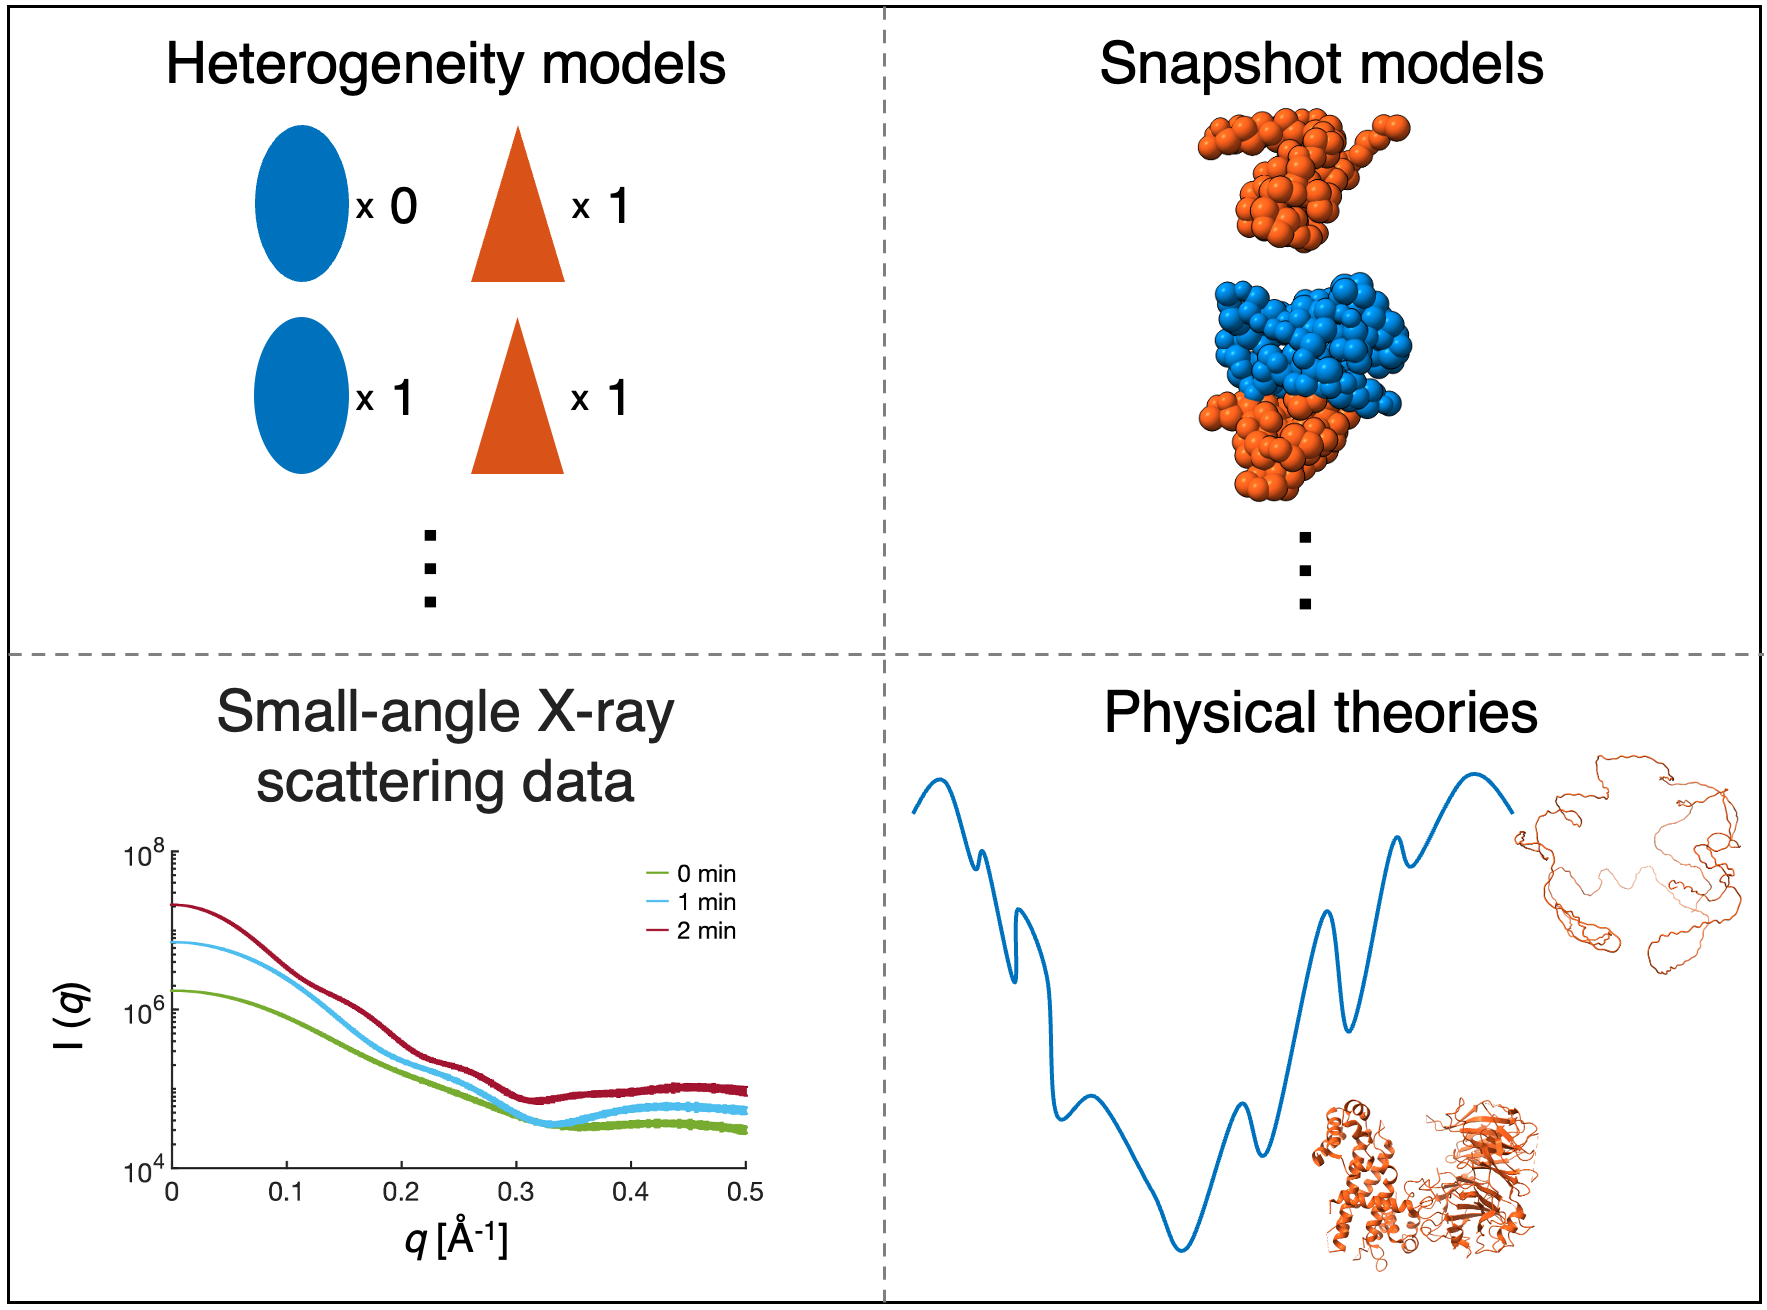
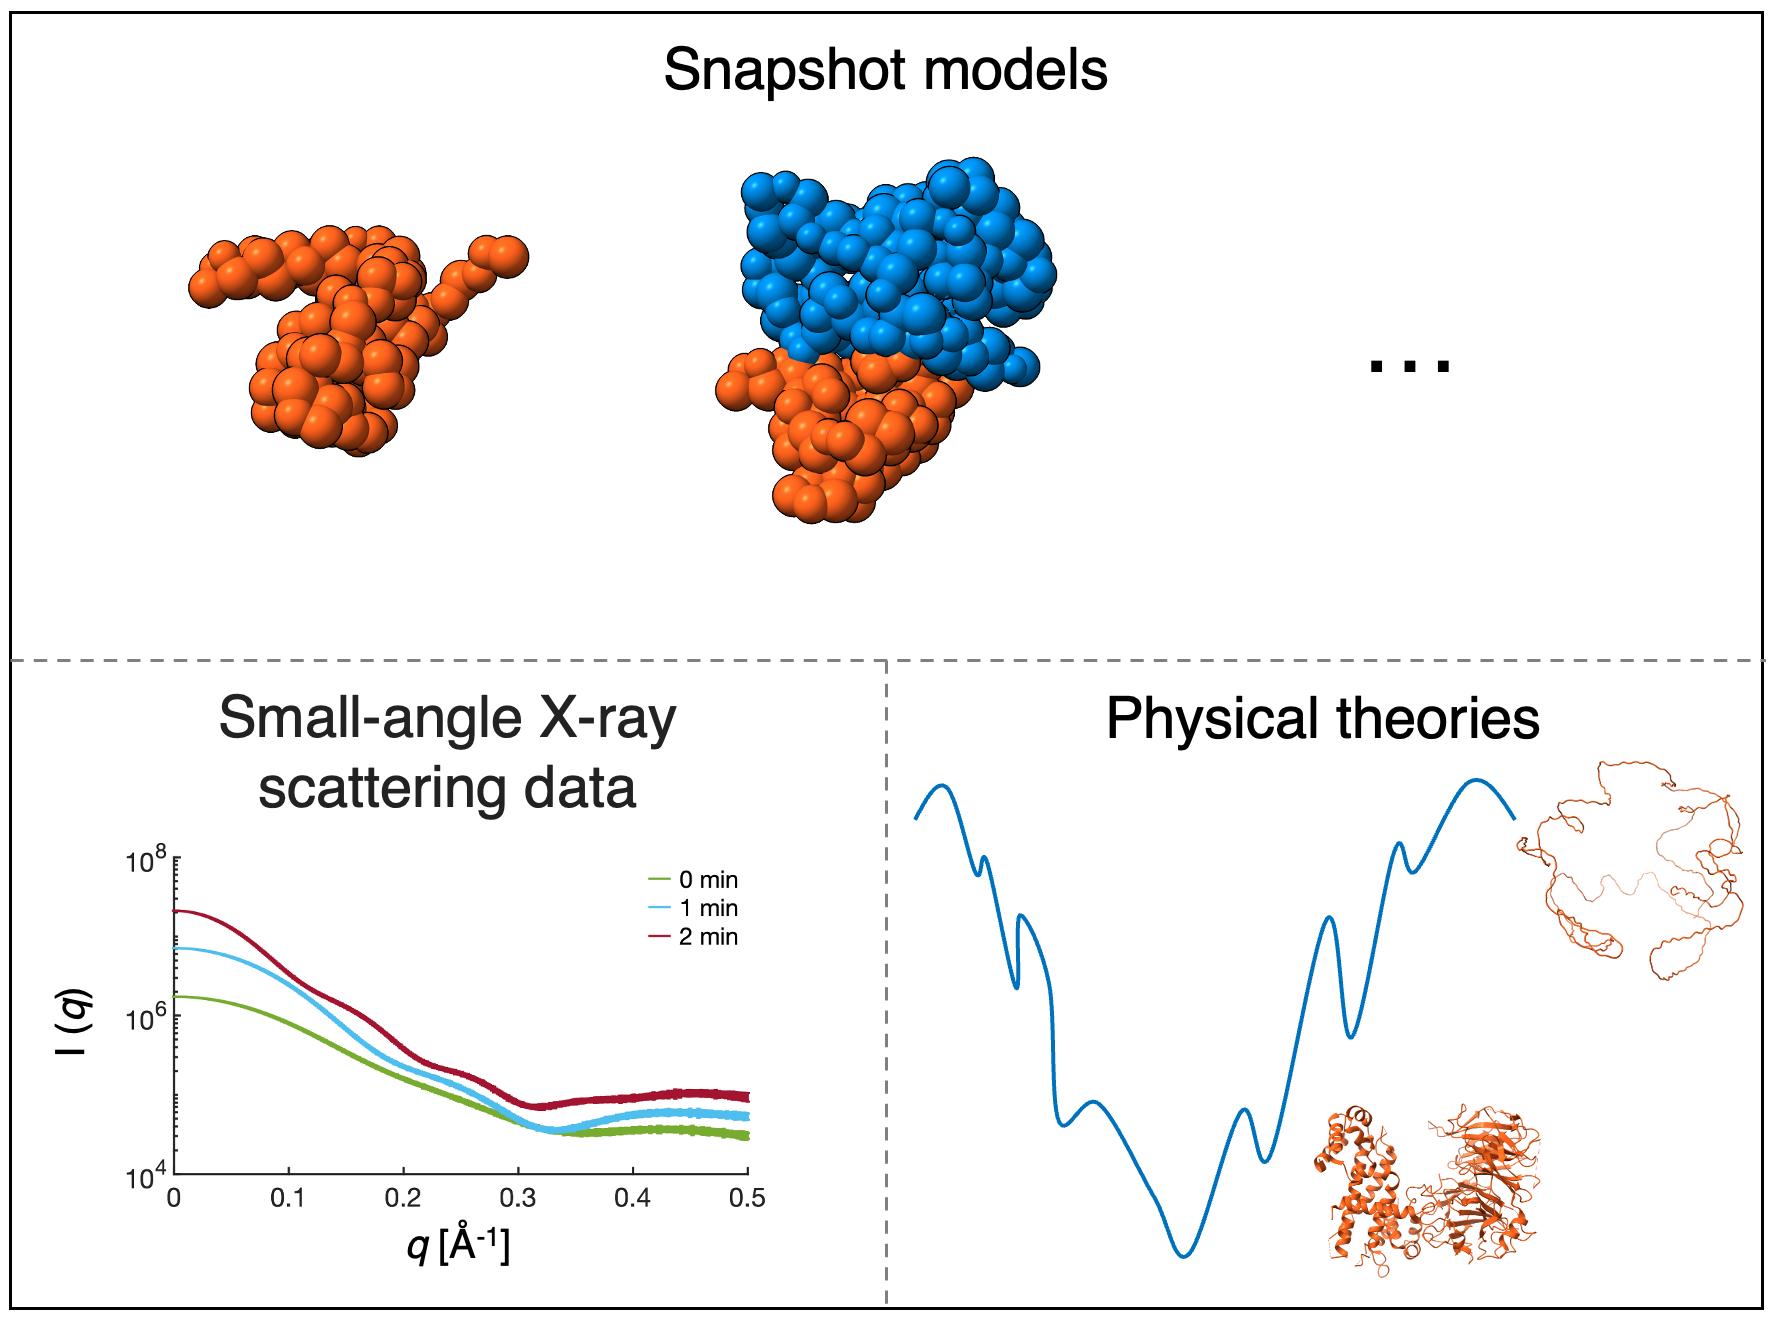
Updated Eq

diff --git a/doc/trajectory.md b/doc/trajectory.md
@@ -5,11 +5,11 @@ Here, we describe the final modeling problem in our composite workflow, how to b
 
 # Trajectory modeling step 1: gathering of information {#trajectories1}
 
-We begin trajectory modeling with the first step of integrative modeling, gathering information. Trajectory modeling utilizes dynamic information about the bimolecular process. In this case, we utilize heterogeneity models, snapshot models, physical theories, and synthetically generated small-angle X-ray scattering (SAXS) profiles.
+We begin trajectory modeling with the first step of integrative modeling, gathering information. Trajectory modeling utilizes dynamic information about the bimolecular process. In this case, we utilize snapshot models, physical theories, and synthetically generated small-angle X-ray scattering (SAXS) profiles.
 
 \image html Input_trajectories.png width=600px
 
-Heterogeneity models inform the possible compositional states at each time point and measure how well a compositional state agrees with input information. Snapshot models provide structural models for each heterogeneity model and measure how well those structural models agree with input information about their structure. Physical theories of macromolecular dynamics inform transitions between states. SAXS data informs the size and shape of the assembling complex and is left for validation.
+Snapshot models inform transitions between sampled time points, and their scores inform trajectory scores. Physical theories of macromolecular dynamics inform transitions between sampled time points. SAXS data informs the size and shape of the assembling complex and is left for validation.
 
 # Trajectory modeling step 2: representation, scoring function, and search process {#trajectories2}
 
@@ -26,10 +26,10 @@ We choose to represent dynamic processes as a trajectory of snapshot models, wit
 To score trajectory models, we incorporate both the scores of individual snapshot models, as well as the scores of transitions between them. Under the assumption that the process is Markovian (*i.e.* memoryless), the weight of a trajectory model takes the form:
 
 \f[
-W(\chi) \propto   \displaystyle\prod^{T}_{t=0} P( X_{N,t}, N_{t} | D_{t}) \cdot \displaystyle\prod^{T-1}_{t=0} W(X_{N,t+1},N_{t+1} | X_{N,t},N_{t}, D_{t,t+1}),
+W(\chi) \propto   \displaystyle\prod^{T}_{t=0} P( X_{t} | D_{t}) \cdot \displaystyle\prod^{T-1}_{t=0} W(X_{t+1} | X_{t},D_{t,t+1})
 \f]
 
-where \f$t\f$ indexes times from 0 until the final modeled snapshot (\f$T\f$); \f$P(X_{N,t}, N_{t} | D_{t})\f$ is the snapshot model score; and \f$W(X_{N,t+1},N_{t+1} | X_{N,t},N_{t}, D_{t,t+1})\f$ is the transition score. Trajectory model weights (\f$W(\chi)\f$) are normalized so that the sum of all trajectory models' weights is 1.0. Transition scores are currently based on a simple metric that either allows or disallows a transition. Transitions are only allowed if all proteins in the first snapshot model are included in the second snapshot model. In the future, we hope to include more detailed transition scoring terms, which may take into account experimental information or physical models of macromolecular dynamics.
+where \f$t\f$ indexes times from 0 until the final modeled snapshot (\f$T\f$); \f$P(X_{t} | D_{t})\f$ is the snapshot model score; and \f$W(X_{t+1} | X_{t}, D_{t,t+1})\f$ is the transition score. Trajectory model weights (\f$W(\chi)\f$) are normalized so that the sum of all trajectory models' weights is 1.0. Transition scores are currently based on a simple metric that either allows or disallows a transition. Transitions are only allowed if all proteins in the first snapshot model are included in the second snapshot model. In the future, we hope to include more detailed transition scoring terms, which may take into account experimental information or physical models of macromolecular dynamics.
 
 ### Searching for good scoring models {#trajectory_searching}
 
